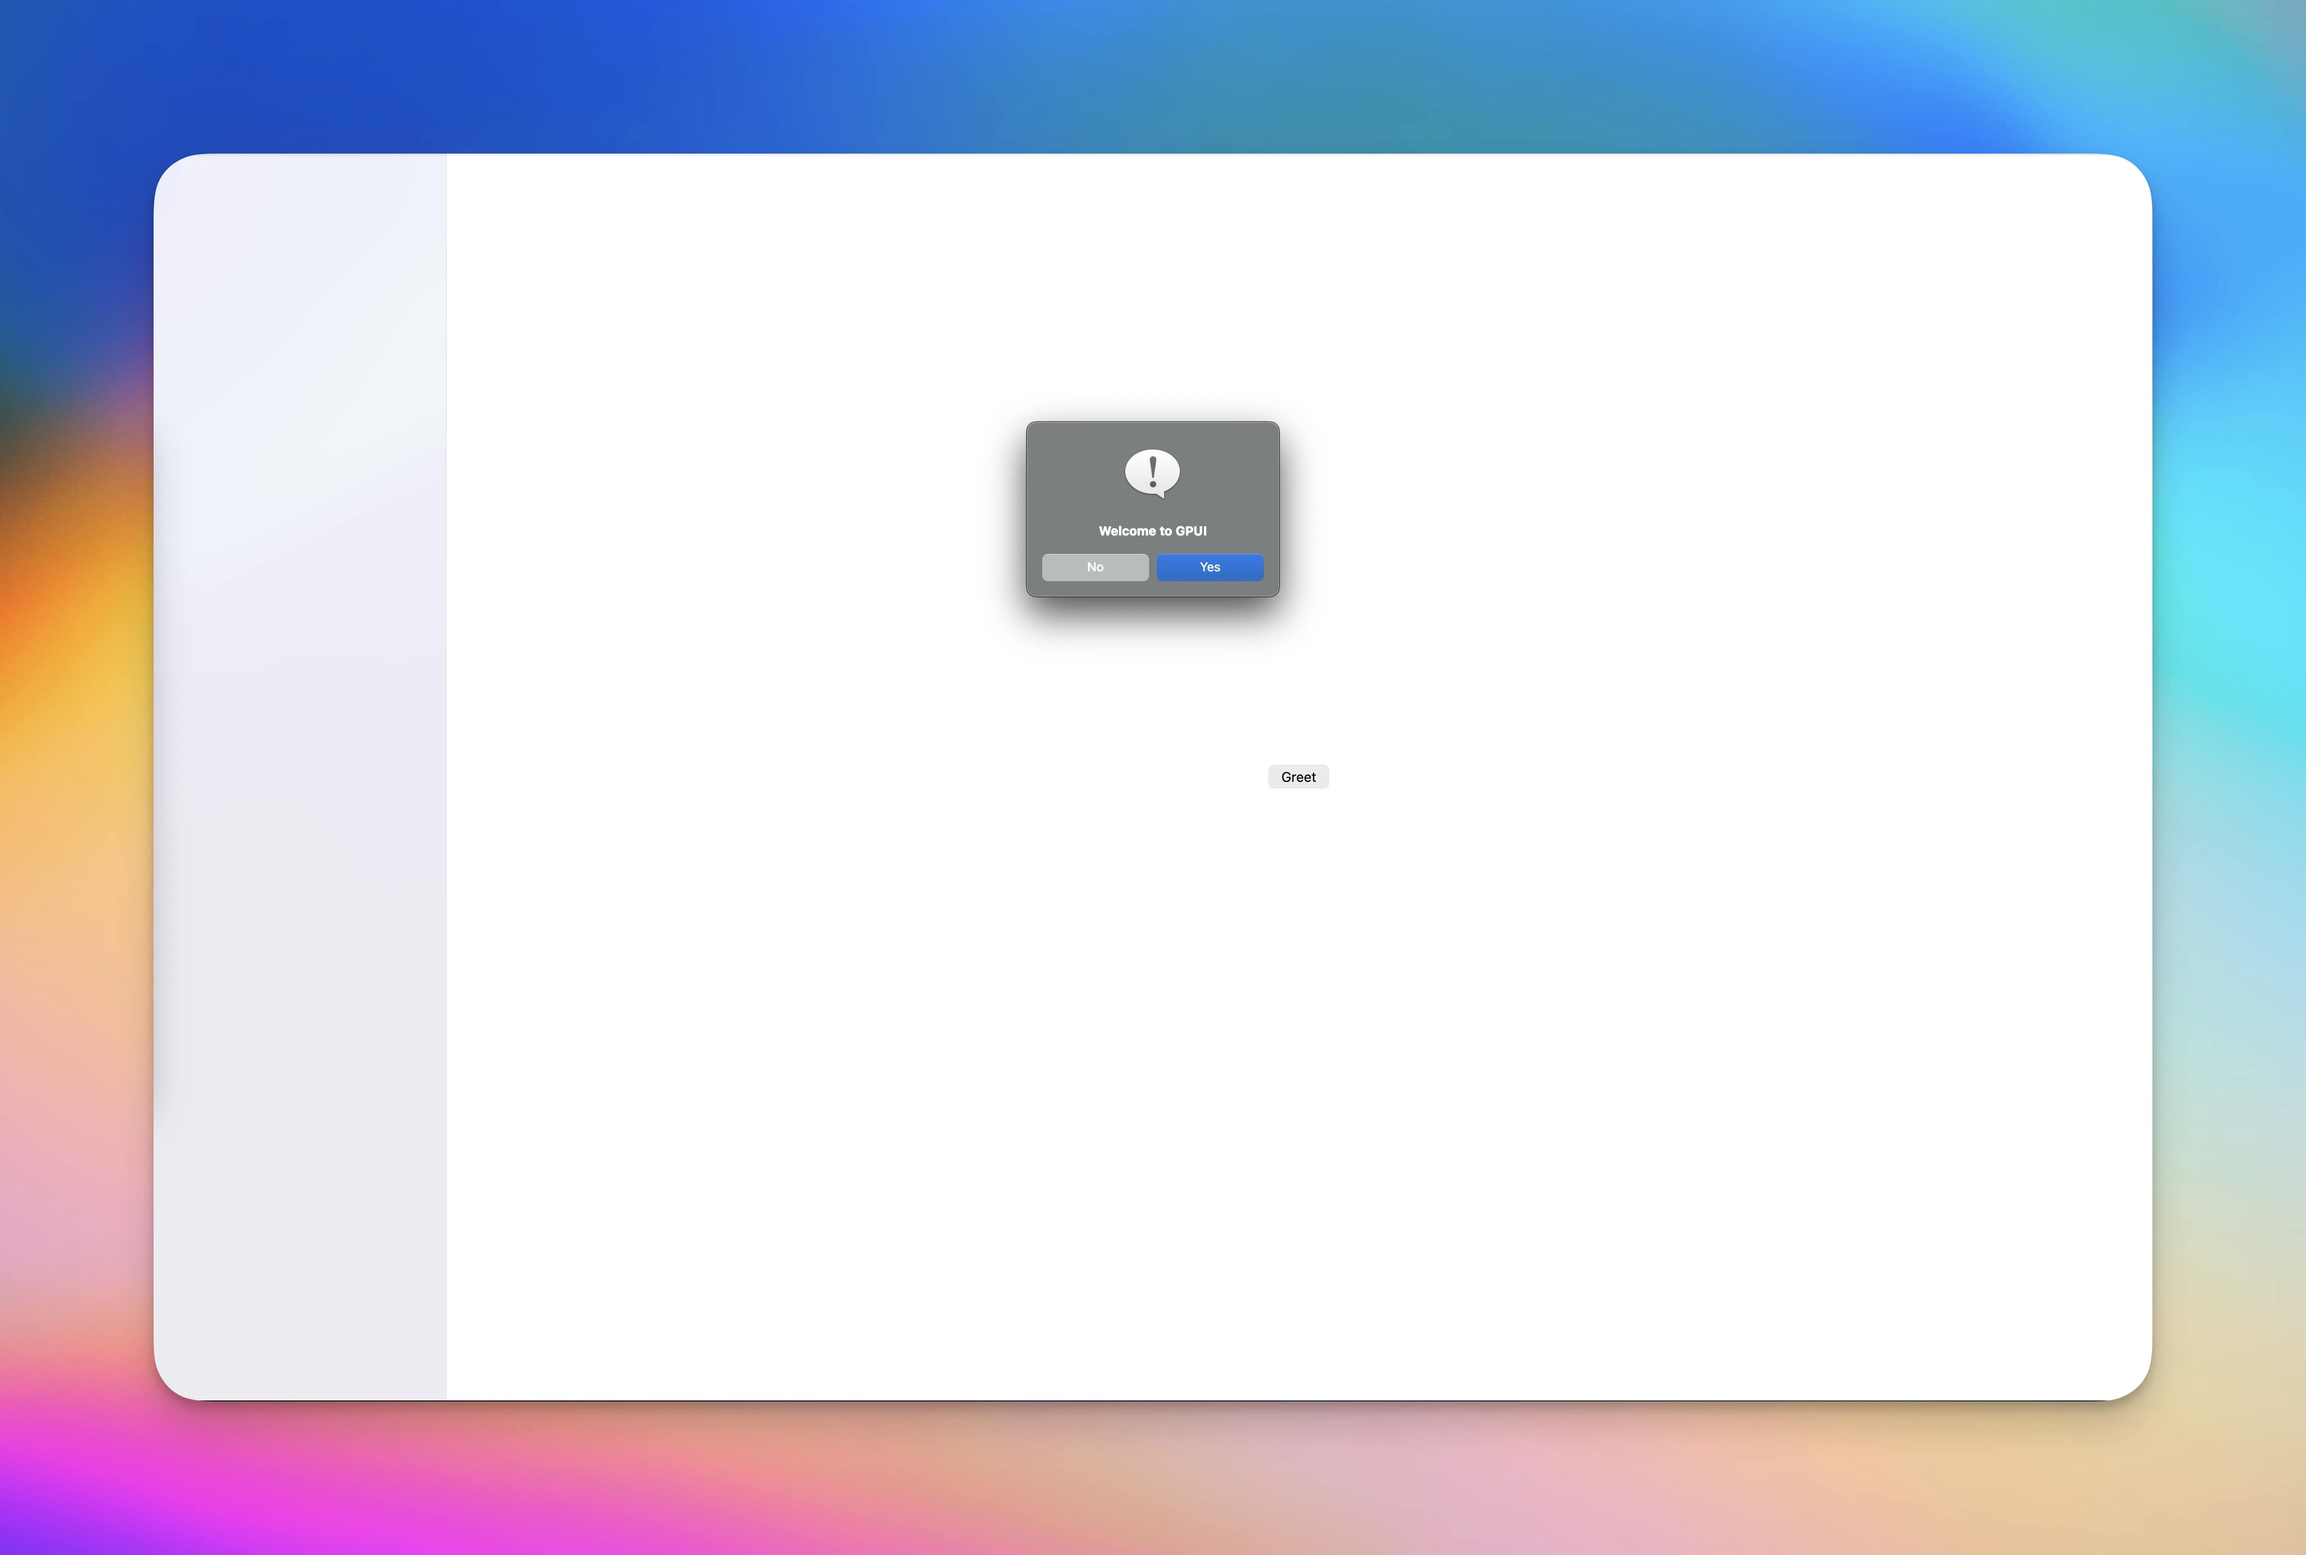
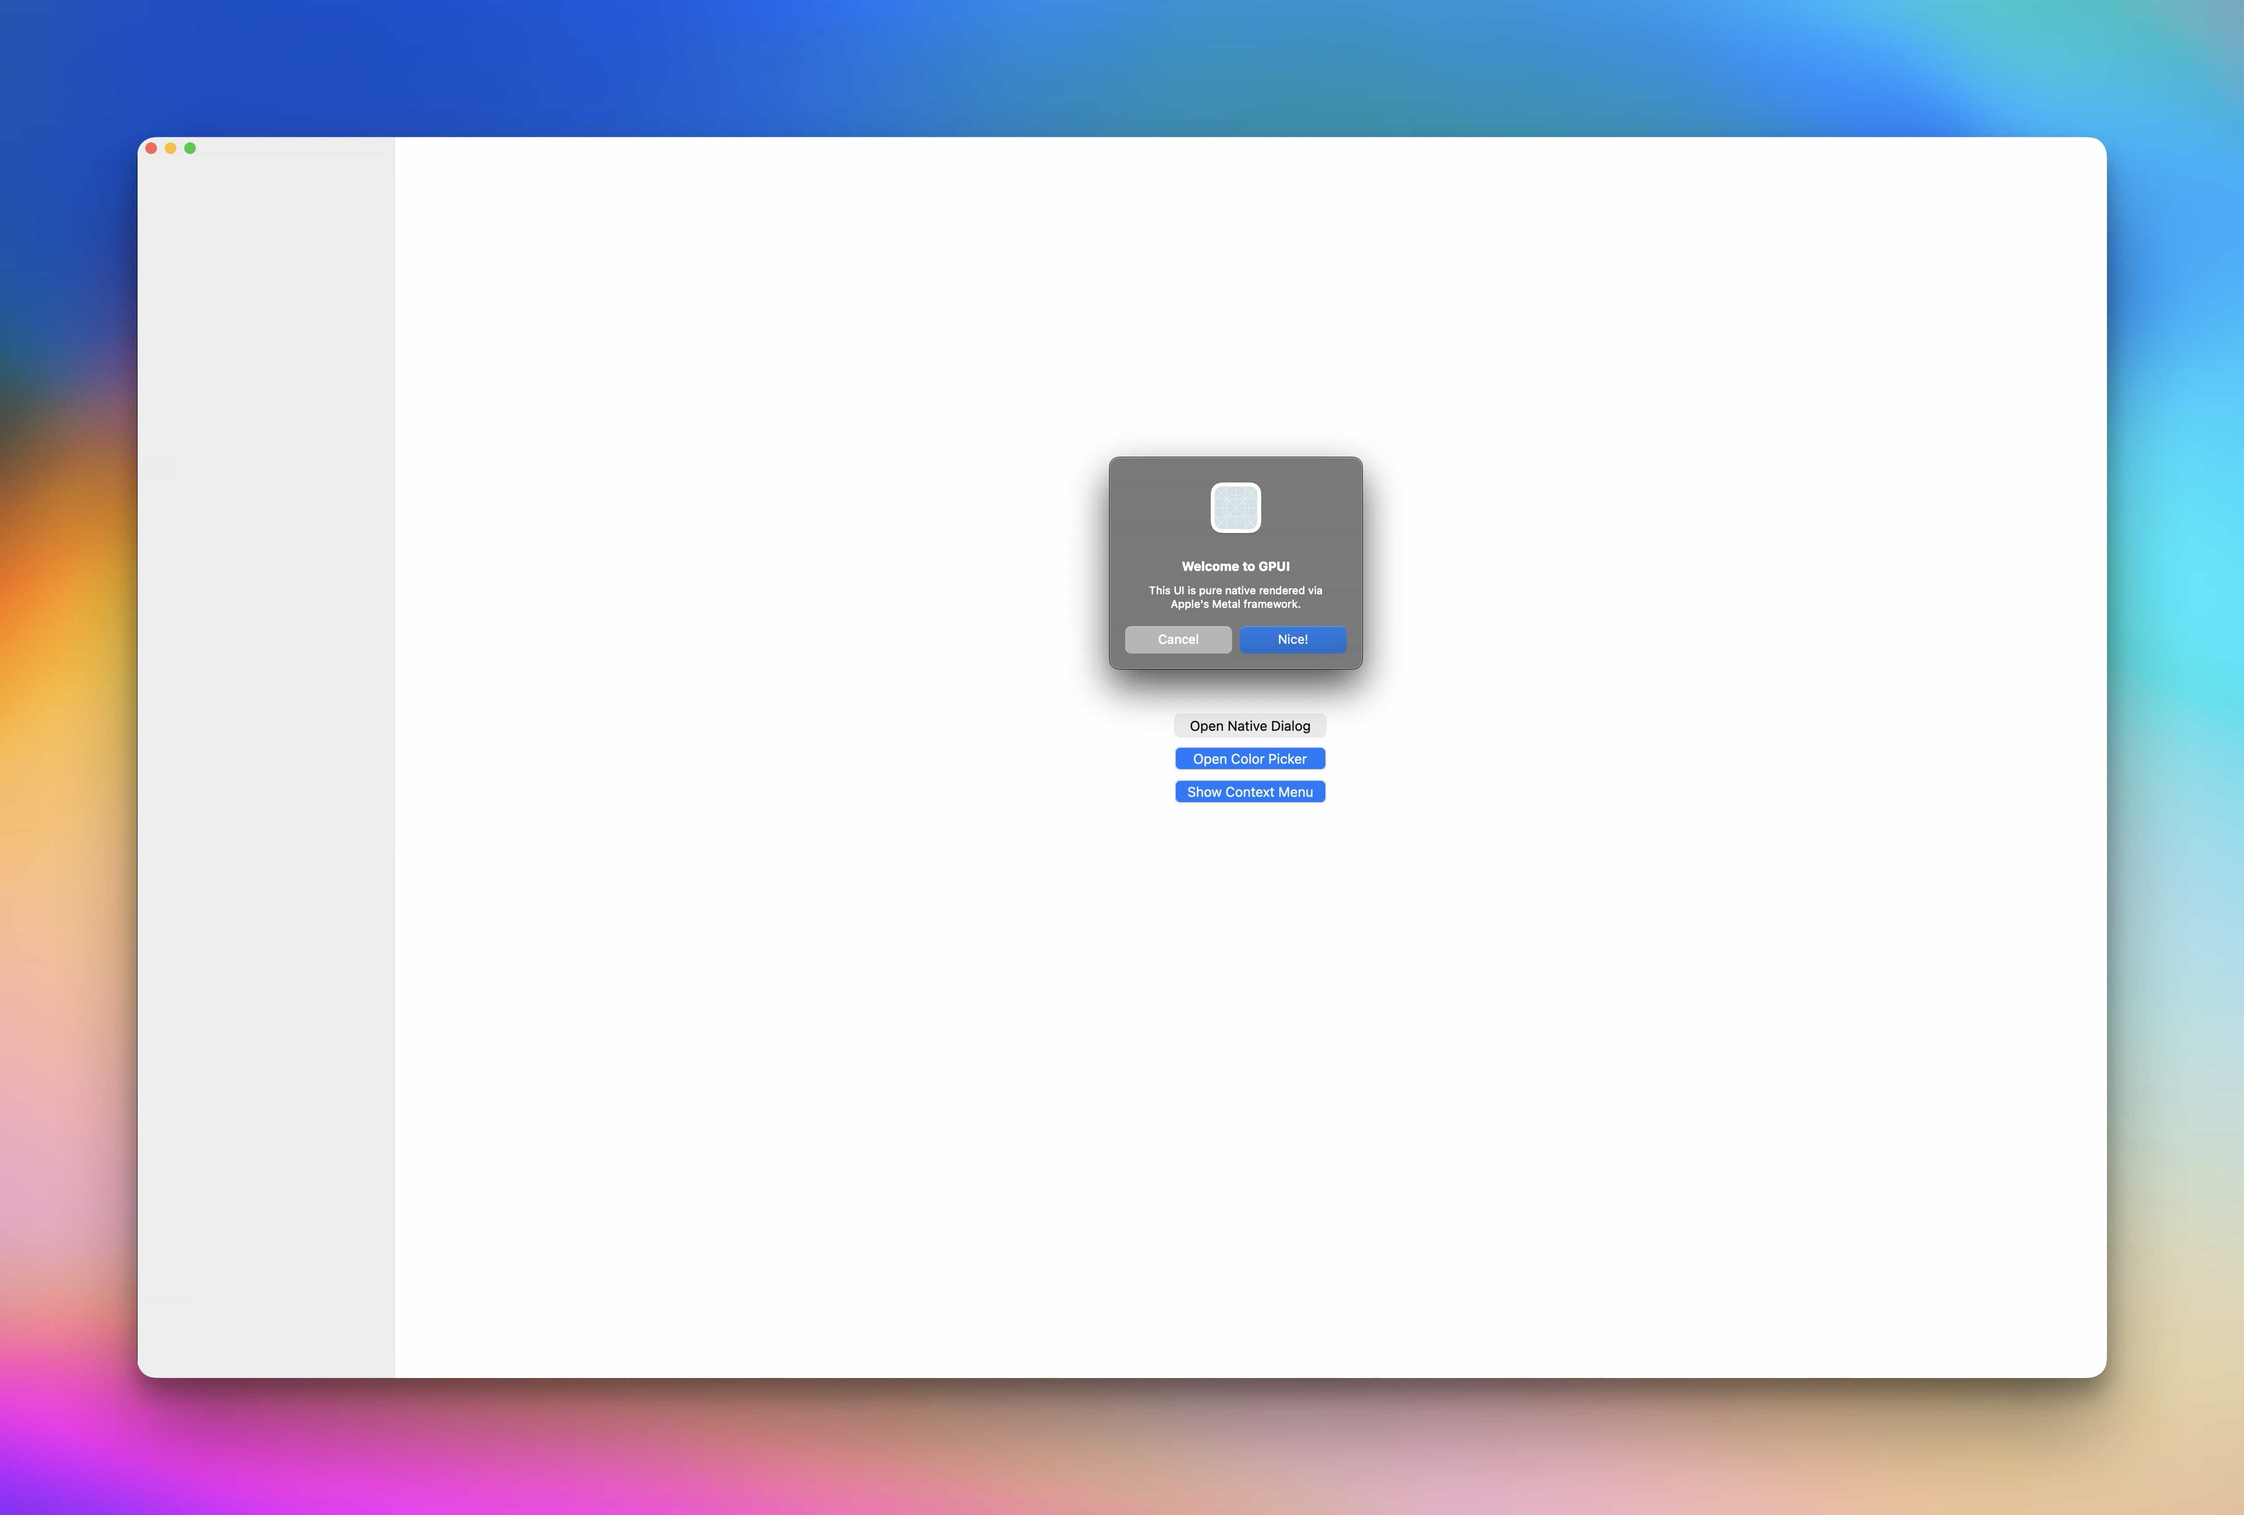
feat: native menu

Changed region(s): [[0.0312, 0.0622, 0.9669, 0.9644], [0.4366, 0.2489, 0.6238, 0.5289]]

diff --git a/native/context-menu.swift b/native/context-menu.swift
@@ -1,0 +1,104 @@
+import AppKit
+
+class AppDelegate: NSObject, NSApplicationDelegate, NSMenuDelegate {
+
+    var window: NSWindow!
+
+    func applicationDidFinishLaunching(_ notification: Notification) {
+
+        NSApp.setActivationPolicy(.regular)
+        NSApp.activate(ignoringOtherApps: true)
+
+        let args = CommandLine.arguments
+
+        guard args.count >= 3 else {
+            print("")
+            NSApplication.shared.terminate(nil)
+            return
+        }
+
+        // Always required now
+        let x = Double(args[1]) ?? 0
+        let y = Double(args[2]) ?? 0
+
+        let items = Array(args.dropFirst(3)).filter { !$0.isEmpty }
+
+        guard !items.isEmpty else {
+            print("")
+            NSApplication.shared.terminate(nil)
+            return
+        }
+
+        let menu = NSMenu()
+        menu.delegate = self
+
+        for item in items {
+            let mi = NSMenuItem(title: item, action: #selector(selectItem(_:)), keyEquivalent: "")
+            mi.target = self
+            menu.addItem(mi)
+        }
+
+        // 🔑 IMPORTANT: anchor window must match SAME coordinate system
+        let point = NSPoint(
+            x: x,
+            y: y
+        )
+
+        print("DEBUG x:", x, "y:", y)
+
+        // FIX: place window at SAME location (not 0,0)
+        window = NSWindow(
+            contentRect: NSRect(x: 0, y: 0, width: 1, height: 1),
+            styleMask: [],
+            backing: .buffered,
+            defer: false
+        )
+
+        window.level = .floating
+        window.collectionBehavior = [.canJoinAllSpaces, .fullScreenAuxiliary]
+        window.isOpaque = false
+        window.backgroundColor = .clear
+        window.makeKeyAndOrderFront(nil)
+
+        let view = NSView(frame: window.contentView!.bounds)
+
+        view.discardCursorRects()
+        view.addCursorRect(view.bounds, cursor: NSCursor.arrow)
+        NSCursor.arrow.set()
+
+        window.contentView = view
+
+        // ensure menu uses SAME reference space as window
+        DispatchQueue.main.async {
+            menu.popUp(positioning: nil, at: point, in: nil)
+        }
+    }
+
+    @objc func selectItem(_ sender: NSMenuItem) {
+        print(sender.title)
+        DispatchQueue.main.async {
+            self.cleanup()
+        }
+    }
+
+    func menuDidClose(_ menu: NSMenu) {
+        DispatchQueue.main.async {
+            self.cleanup()
+        }
+    }
+
+    func cleanup() {
+        NSCursor.arrow.set()
+
+        window?.orderOut(nil)
+        window?.close()
+        window = nil
+
+        NSApplication.shared.terminate(nil)
+    }
+}
+
+let app = NSApplication.shared
+let delegate = AppDelegate()
+app.delegate = delegate
+app.run()

diff --git a/native/color-palette.swift b/native/color-palette.swift
@@ -1,0 +1,63 @@
+import AppKit
+
+class AppDelegate: NSObject, NSApplicationDelegate {
+
+    var window: NSWindow!
+    var colorWell: NSColorWell!
+
+    func applicationDidFinishLaunching(_ notification: Notification) {
+
+        NSApp.setActivationPolicy(.regular)
+        NSApp.activate(ignoringOtherApps: true)
+
+        window = NSWindow(
+            contentRect: NSRect(x: 0, y: 0, width: 260, height: 160),
+            styleMask: [.titled, .closable],
+            backing: .buffered,
+            defer: false
+        )
+
+        window.title = "Color Picker"
+
+        window.level = .floating
+        window.collectionBehavior = [.canJoinAllSpaces, .fullScreenAuxiliary]
+
+        let contentView = NSView(frame: window.contentView!.bounds)
+
+        colorWell = NSColorWell(frame: NSRect(x: 20, y: 90, width: 220, height: 30))
+        contentView.addSubview(colorWell)
+
+        let label = NSTextField(labelWithString: "Pick a color:")
+        label.frame = NSRect(x: 20, y: 120, width: 200, height: 20)
+        contentView.addSubview(label)
+
+        let button = NSButton(title: "Select", target: self, action: #selector(selectColor))
+        button.frame = NSRect(x: 20, y: 30, width: 220, height: 40)
+        button.bezelStyle = .rounded
+        contentView.addSubview(button)
+
+        window.contentView = contentView
+        window.center()
+        window.makeKeyAndOrderFront(nil)
+    }
+
+    @objc func selectColor() {
+        guard let color = colorWell.color.usingColorSpace(.sRGB) else {
+            print("null")
+            NSApplication.shared.terminate(nil)
+            return
+        }
+
+        let output = "\(color.redComponent) \(color.greenComponent) \(color.blueComponent) \(color.alphaComponent)"
+        print(output)
+
+        NSApplication.shared.terminate(nil)
+    }
+}
+
+// Entry point
+let app = NSApplication.shared
+let delegate = AppDelegate()
+
+app.delegate = delegate
+app.run()

diff --git a/src/main.rs b/src/main.rs
@@ -69,6 +69,22 @@ impl Render for RootView {
                                                     Err(err) => println!("{:?}", err),
                                                 }
                                             }),
+                                    ).child(
+                                        Button::new("context-menu")
+                                            .small()
+                                            .label("Show Context Menu")
+                                            .cursor(gpui::CursorStyle::PointingHand)
+                                            .text_color(rgb(0xFFFFFF))
+                                            .bg(rgb(0x007AFF))
+                                            .on_click(move |evt, _, _| {
+                                                let pos=evt.position();
+                                                match native::show_context_menu(vec!["Menu 1", "Menu 2: This is a very very long menu"],(pos.x.as_f32(), pos.y.as_f32())) {
+                                                    Ok(color) => {
+                                                        println!("Color {:?}", color)
+                                                    }
+                                                    Err(err) => println!("{:?}", err),
+                                                }
+                                            }),
                                     ),
                             )
                             .into_any_element(),

diff --git a/src/native.rs b/src/native.rs
@@ -1,6 +1,6 @@
 use std::{path::PathBuf, process::Command};
 
-fn get_native_bin_(name: &str) -> PathBuf {
+fn get_native_bin(name: &str) -> PathBuf {
     #[cfg(debug_assertions)]
     {
         return PathBuf::from("dist/native").join(name);
@@ -18,7 +18,7 @@ fn get_native_bin_(name: &str) -> PathBuf {
 }
 
 pub fn pick_color() -> Result<Option<String>, String> {
-    let output = Command::new(get_native_bin_("color-picker"))
+    let output = Command::new(get_native_bin("color-picker"))
         .output()
         .map_err(|err| err.to_string())?;
 
@@ -40,7 +40,7 @@ pub fn show_dialog(
     description: Option<&str>,
     ok_text: Option<&str>,
 ) -> Result<Option<bool>, String> {
-    let mut cmd = Command::new(get_native_bin_("dialog"));
+    let mut cmd = Command::new(get_native_bin("dialog"));
 
     cmd.arg(title);
 
@@ -68,4 +68,27 @@ pub fn show_dialog(
         "cancel" => Ok(Some(false)),
         _ => Ok(None),
     }
+}
+
+pub fn show_context_menu(items: Vec<&str>, pos: (f32, f32)) -> Result<Option<String>, String> {
+    let mut cmd = Command::new(get_native_bin("context-menu"));
+
+    cmd.arg(pos.0.to_string());
+    cmd.arg(pos.1.to_string());
+
+    for item in items {
+        cmd.arg(item);
+    }
+
+    println!("{:?}", cmd);
+
+    let output = cmd.output().map_err(|e| e.to_string())?;
+
+    let stdout = String::from_utf8_lossy(&output.stdout).trim().to_string();
+
+    if stdout.is_empty() {
+        return Ok(None);
+    }
+
+    Ok(Some(stdout))
 }
